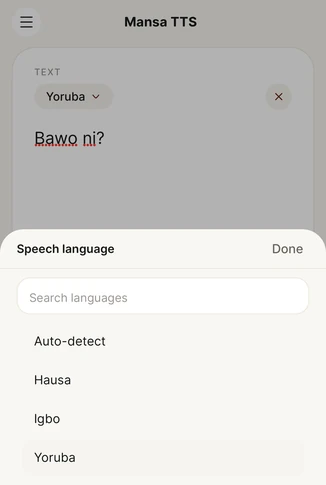
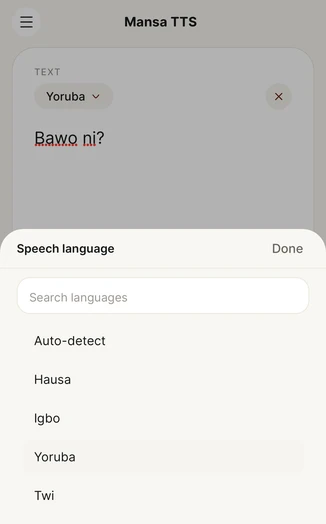
Fix ASR feature box sizing/mismatch, revert AI section to solid background
- ASR page: the two feature screenshots were different heights (557
  vs 485), and the panel's aspect ratio had been widened to fit the
  taller one without cropping, which made both boxes much bigger than
  the same section on every other product page. Re-cropped both
  images to the same height (extending the shorter one to reveal a
  bit more of the language list instead of trimming the taller one,
  so neither loses content) and brought the panel back to the same
  compact aspect ratio Translate and Transcribe already use.
- Mansa AI page: reverted the "Engineered for intelligent
  conversations" section back to a solid espresso background instead
  of blending into the section below. Removed the now-unused
  fadeToClass feature from EmptyFeatureCards entirely since nothing
  else used it.

diff --git a/components/product/EmptyFeatureCards.tsx b/components/product/EmptyFeatureCards.tsx
@@ -23,8 +23,6 @@ type Props = {
   /** how the UI sits in the panel — "cover" fills edge-to-edge, "contain" letterboxes,
    *  "float" shows the UI at its native aspect ratio, top-anchored on the panel background */
   fit?: "cover" | "contain" | "float";
-  /** blend the section's bottom edge into this Tailwind bg-* color instead of a hard cut */
-  fadeToClass?: string;
 };
 
 /**
@@ -42,7 +40,6 @@ export function EmptyFeatureCards({
   glow = false,
   mediaAspect = "aspect-[4/3]",
   fit = "contain",
-  fadeToClass,
 }: Props) {
   const dark = theme === "dark";
   const float = fit === "float";
@@ -55,10 +52,7 @@ export function EmptyFeatureCards({
   const grid = columns === 3 ? "md:grid-cols-3" : "md:grid-cols-2";
 
   return (
-    <section className={`relative overflow-hidden ${dark ? "bg-espresso py-24 md:py-28" : "bg-cream py-24 md:py-28"}`}>
-      {fadeToClass && (
-        <div aria-hidden className={`pointer-events-none absolute inset-x-0 bottom-0 h-32 bg-gradient-to-b ${fadeToClass}`} />
-      )}
+    <section className={dark ? "bg-espresso py-24 md:py-28" : "bg-cream py-24 md:py-28"}>
       <div className="container-page">
         <motion.div
           variants={fadeUp}

diff --git a/app/asr/page.tsx b/app/asr/page.tsx
@@ -33,7 +33,7 @@ export default function AsrPage() {
         <EmptyFeatureCards
           heading="Speech recognition built for African languages."
           subheading="Clear, accurate, and true to how people actually speak."
-          mediaAspect="aspect-[4/5]"
+          mediaAspect="aspect-[551/523]"
           fit="float"
           cards={[
             {
@@ -41,14 +41,14 @@ export default function AsrPage() {
               body: "Convert spoken language into clear, accurate text with AI tuned for real-world audio.",
               img: asset("/assets/asr-ui-1.webp"),
               imgWidth: 326,
-              imgHeight: 557,
+              imgHeight: 524,
             },
             {
               title: "Built for African Languages",
               body: "Recognizes speech accurately across Hausa, Igbo, Yoruba, Twi and Ewe, preserving African accents and dialects.",
               img: asset("/assets/asr-ui-2.webp"),
               imgWidth: 326,
-              imgHeight: 485,
+              imgHeight: 524,
             },
           ]}
         />

diff --git a/app/ai/page.tsx b/app/ai/page.tsx
@@ -35,7 +35,6 @@ export default function AiPage() {
           panel="surface"
           columns={3}
           glow
-          fadeToClass="from-transparent to-cream"
           cards={[
             { title: "Multilingual by design.", body: "Communicate naturally across English and 30+ African languages with AI built for Africa.", img: asset("/assets/ai-engineered-multilingual.webp") },
             { title: "Have natural conversations.", body: "Understand complex questions, plan, generate thoughtful responses, and solve problems.", img: asset("/assets/ai-engineered-3.webp") },
